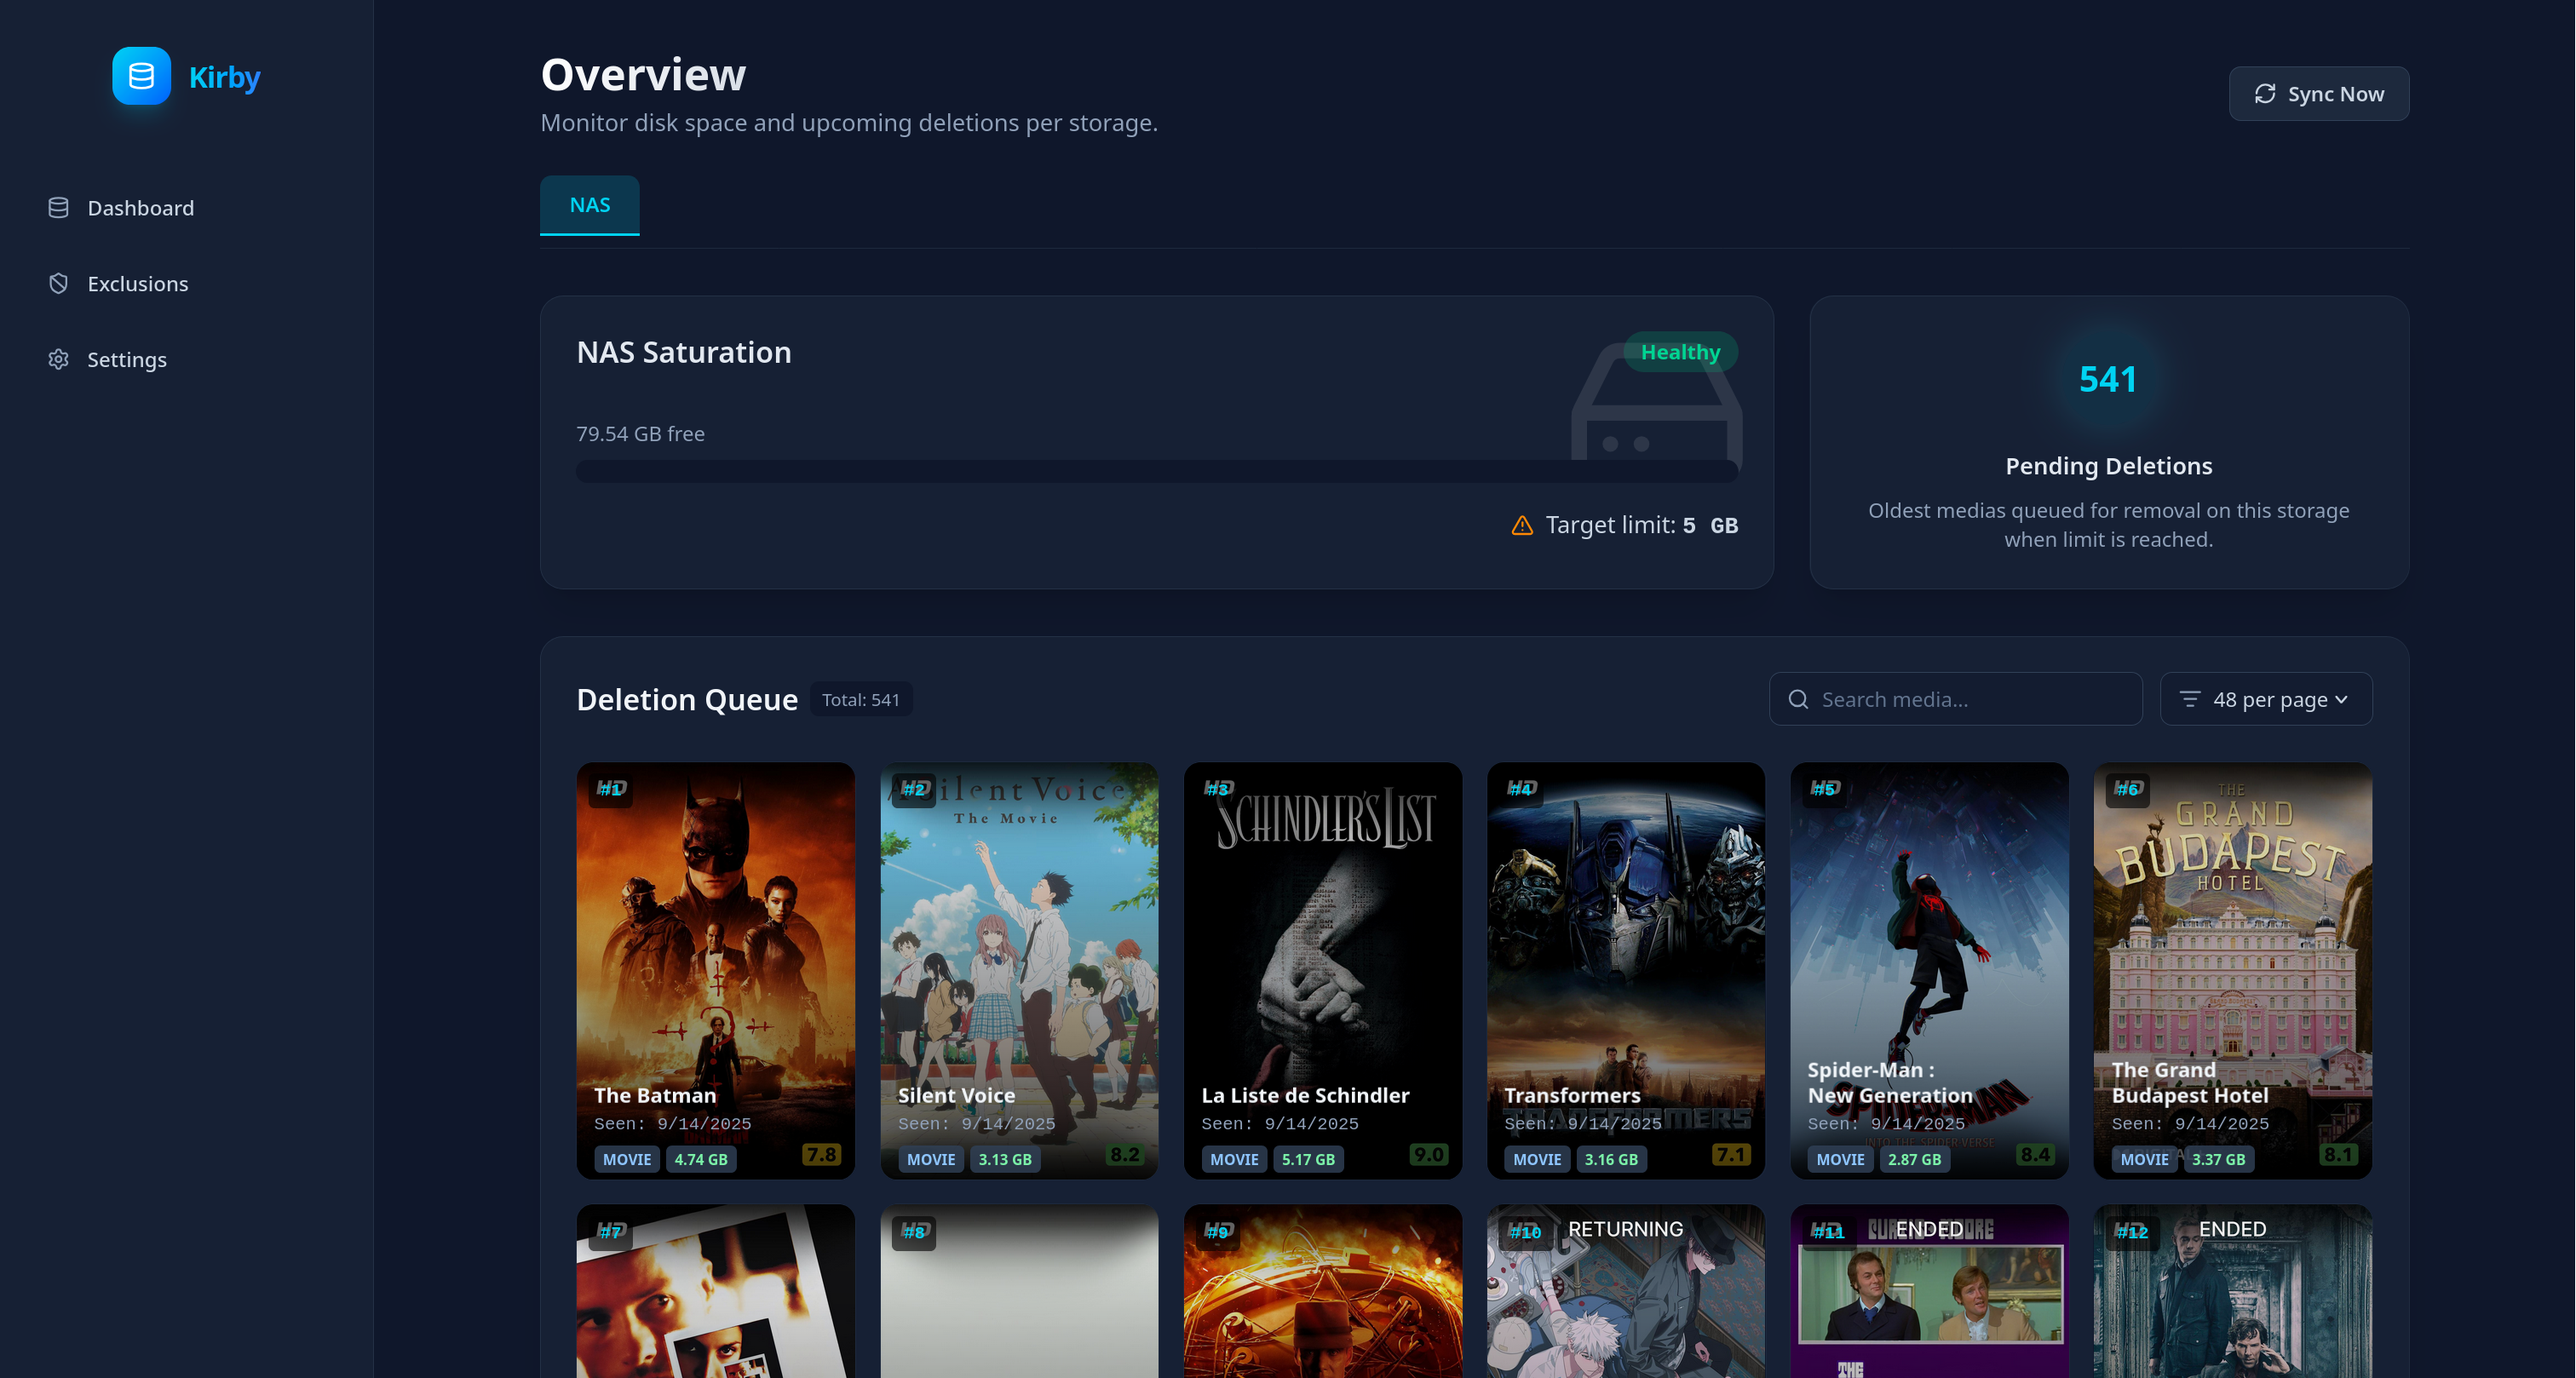
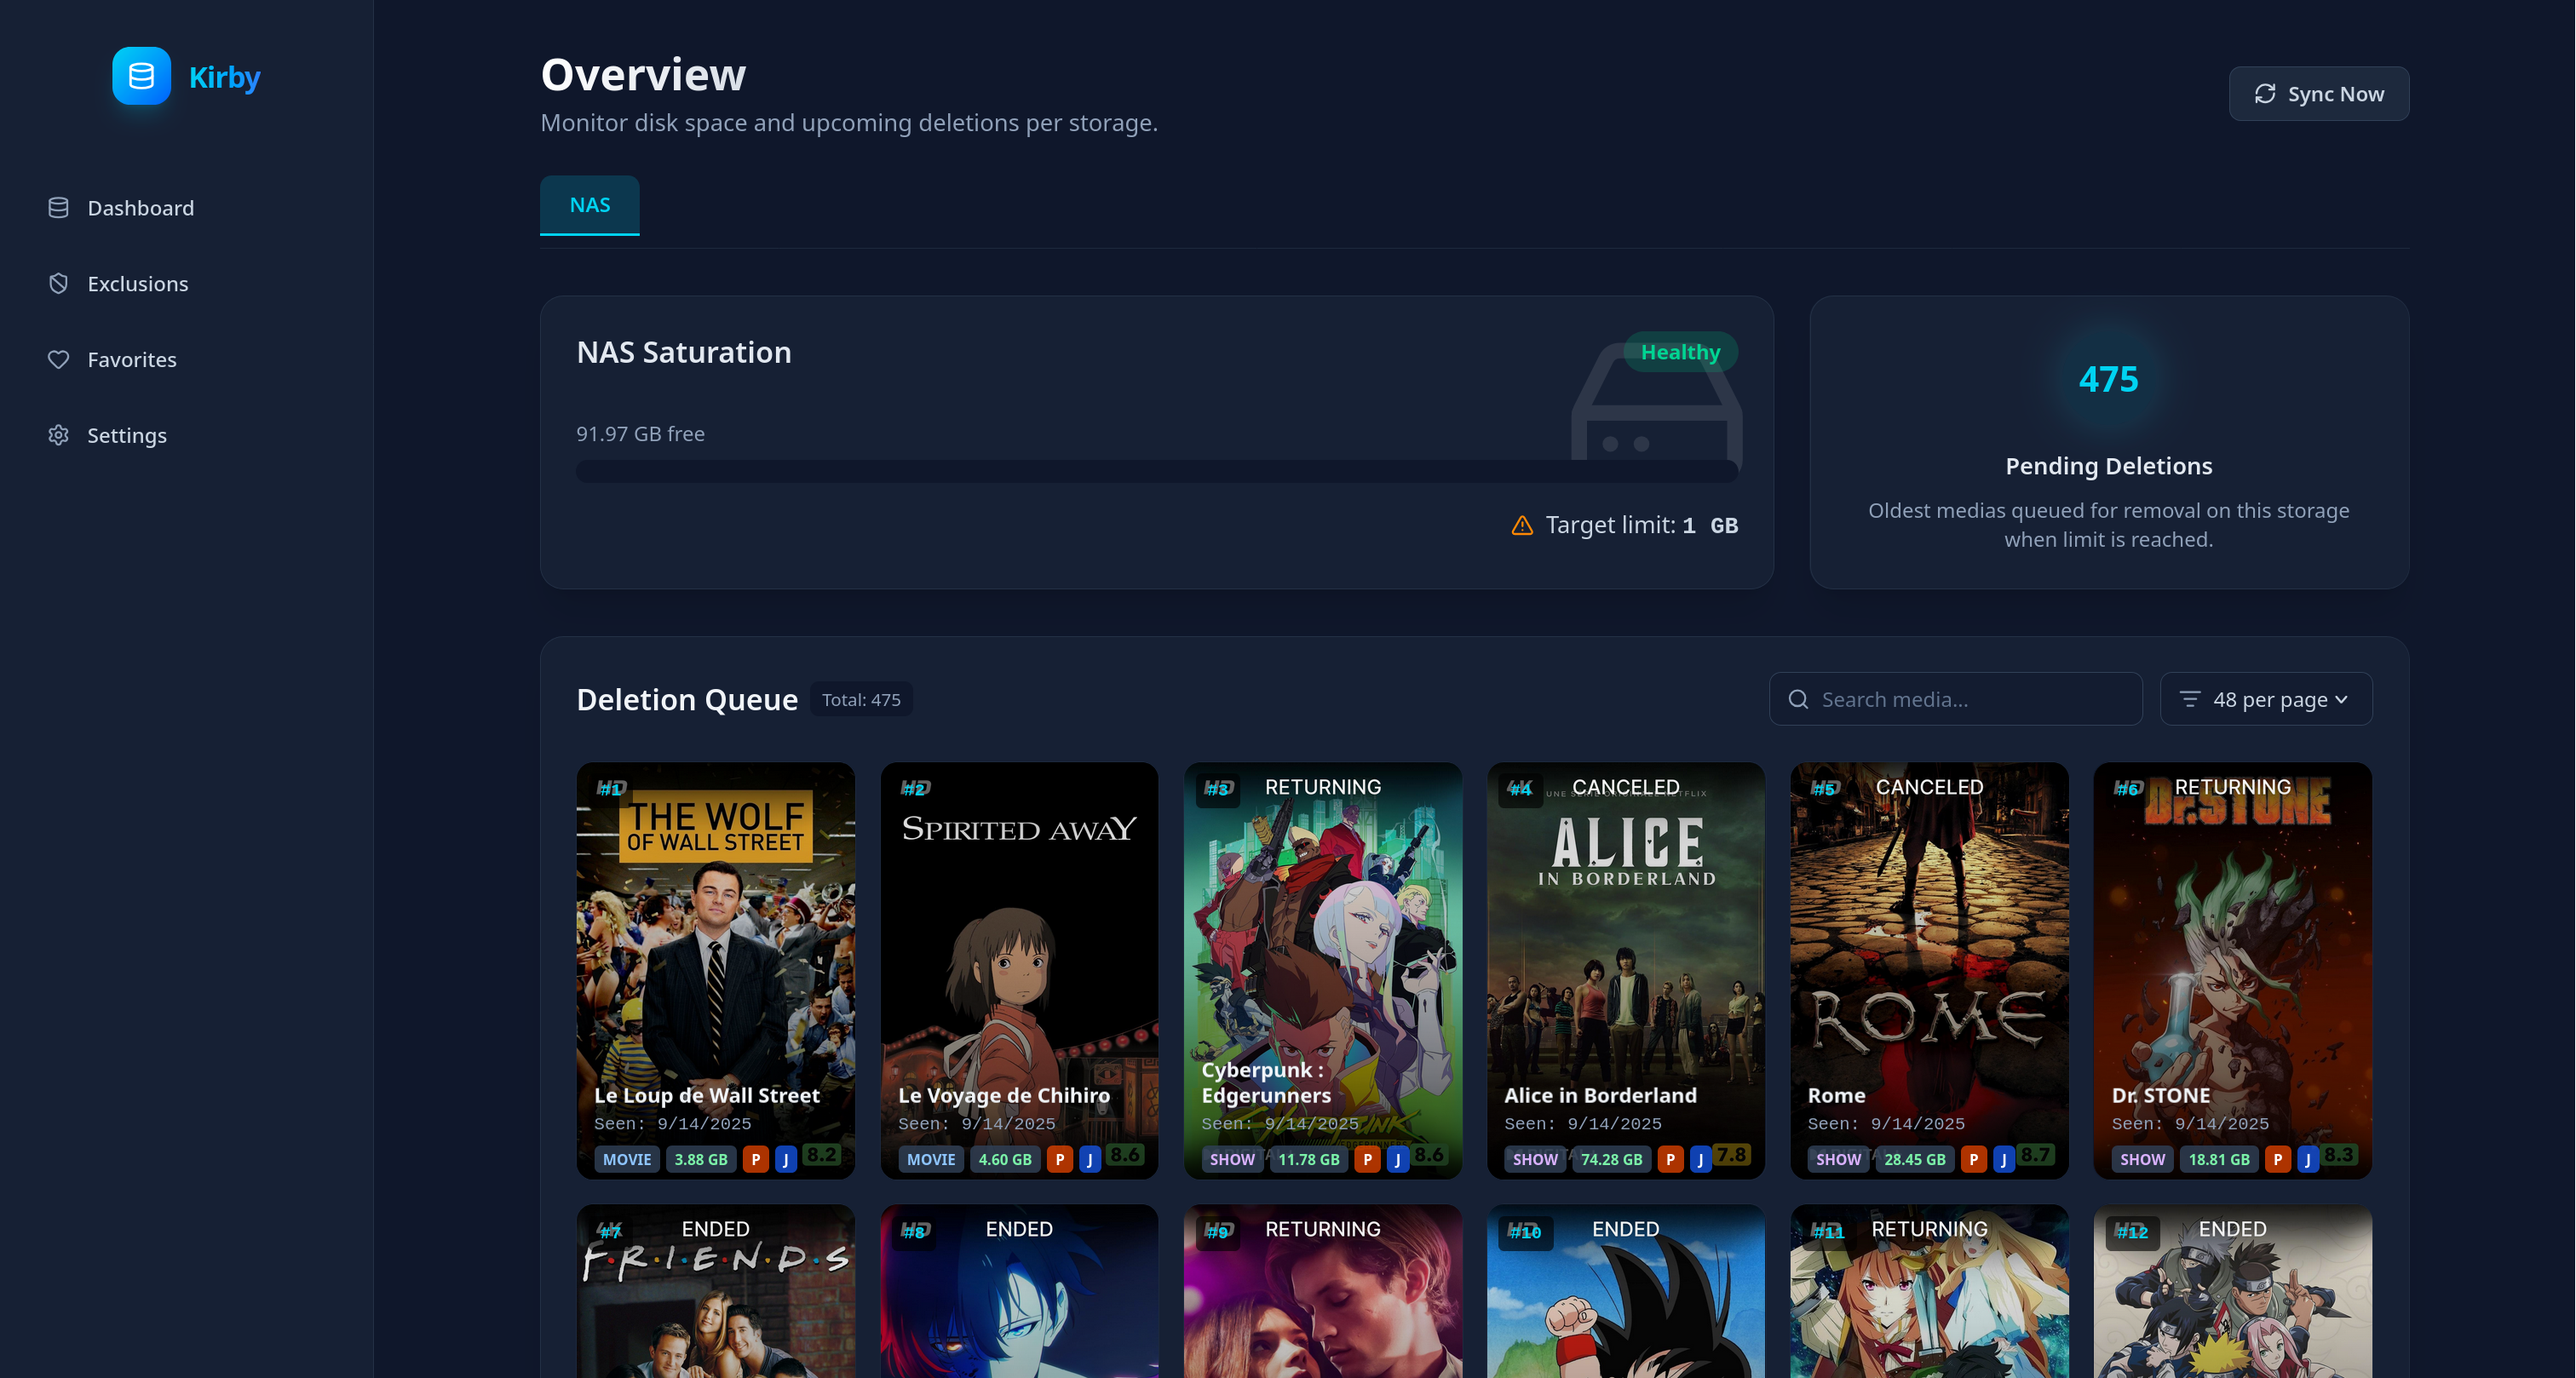
docs: update readme

diff --git a/frontend/src/pages/Settings.tsx b/frontend/src/pages/Settings.tsx
@@ -161,48 +161,47 @@ export default function Settings() {
   const [plexAuthLoading, setPlexAuthLoading] = useState(false);
   const [usersLoading, setUsersLoading] = useState(false);
 
-  // Sync ignoredUsers/excludedUsers with availableUsers when settings load
-  function syncUserColumns(allUsers: string[], savedExcluded: string[]) {
-    setExcludedUsers(savedExcluded.filter(u => allUsers.includes(u)));
-    setIgnoredUsers(allUsers.filter(u => !savedExcluded.includes(u)));
-  }
-
   useEffect(() => {
+    function syncUserColumns(allUsers: string[], savedExcluded: string[]) {
+      setExcludedUsers(savedExcluded.filter(u => allUsers.includes(u)));
+      setIgnoredUsers(allUsers.filter(u => !savedExcluded.includes(u)));
+    }
+
+    async function fetchData() {
+      try {
+        const dataPromises = [
+          axios.get('/api/settings'),
+          axios.get('/api/paths/plex').catch(() => ({ data: [] })),
+          axios.get('/api/paths/jellyfin').catch(() => ({ data: [] })),
+          axios.get('/api/paths/sonarr').catch(() => ({ data: [] })),
+          axios.get('/api/paths/radarr').catch(() => ({ data: [] })),
+          axios.get('/api/favorites/users').catch(() => ({ data: [] })),
+        ];
+        
+        const [resSettings, resPlex, resJellyfin, resSonarr, resRadarr, resUsers] = await Promise.all(dataPromises);
+
+        const data = resSettings.data;
+        if (data.storages) {
+          try { setStorages(JSON.parse(data.storages)); } catch { /* ignore */ }
+        }
+        setSettings(prev => ({ ...prev, ...data }));
+
+        setPlexPaths(resPlex.data || []);
+        setJellyfinPaths(resJellyfin.data || []);
+        setSonarrPaths(resSonarr.data || []);
+        setRadarrPaths(resRadarr.data || []);
+
+        const users: string[] = resUsers.data || [];
+        let savedExcluded: string[] = [];
+        try { savedExcluded = JSON.parse(data.excludeFavoritesUsers || '[]'); } catch { savedExcluded = []; }
+        syncUserColumns(users, savedExcluded);
+      } catch (err) {
+        console.error(err);
+      }
+    }
+
     fetchData();
   }, []);
-
-  async function fetchData() {
-    try {
-      const dataPromises = [
-        axios.get('/api/settings'),
-        axios.get('/api/paths/plex').catch(() => ({ data: [] })),
-        axios.get('/api/paths/jellyfin').catch(() => ({ data: [] })),
-        axios.get('/api/paths/sonarr').catch(() => ({ data: [] })),
-        axios.get('/api/paths/radarr').catch(() => ({ data: [] })),
-        axios.get('/api/favorites/users').catch(() => ({ data: [] })),
-      ];
-      
-      const [resSettings, resPlex, resJellyfin, resSonarr, resRadarr, resUsers] = await Promise.all(dataPromises);
-
-      const data = resSettings.data;
-      if (data.storages) {
-        try { setStorages(JSON.parse(data.storages)); } catch { /* ignore */ }
-      }
-      setSettings(prev => ({ ...prev, ...data }));
-
-      setPlexPaths(resPlex.data || []);
-      setJellyfinPaths(resJellyfin.data || []);
-      setSonarrPaths(resSonarr.data || []);
-      setRadarrPaths(resRadarr.data || []);
-
-      const users: string[] = resUsers.data || [];
-      let savedExcluded: string[] = [];
-      try { savedExcluded = JSON.parse(data.excludeFavoritesUsers || '[]'); } catch { savedExcluded = []; }
-      syncUserColumns(users, savedExcluded);
-    } catch (err) {
-      console.error(err);
-    }
-  }
 
   // Refresh possible paths for a service
   async function refreshPaths(service: string) {
@@ -431,7 +430,7 @@ export default function Settings() {
                   onChange={e => setSettings(s => ({ ...s, excludeFavorites: e.target.checked ? 'true' : 'false' }))}
                   className="sr-only peer"
                 />
-                <div className="w-11 h-6 bg-slate-700 peer-focus:ring-2 peer-focus:ring-pink-500/50 rounded-full peer peer-checked:after:translate-x-full rtl:peer-checked:after:-translate-x-full peer-checked:after:border-white after:content-[''] after:absolute after:top-[2px] after:start-[2px] after:bg-white after:border-gray-300 after:border after:rounded-full after:h-5 after:w-5 after:transition-all peer-checked:bg-pink-500"></div>
+                <div className="w-11 h-6 bg-slate-700 peer-focus:ring-2 peer-focus:ring-pink-500/50 rounded-full peer peer-checked:after:translate-x-full rtl:peer-checked:after:-translate-x-full peer-checked:after:border-white after:content-[''] after:absolute after:top-[2px] after:inset-s-[2px] after:bg-white after:border-gray-300 after:border after:rounded-full after:h-5 after:w-5 after:transition-all peer-checked:bg-pink-500"></div>
               </label>
             </div>
             <p className="text-xs text-slate-400">Medias favorited by Plex or Jellyfin users will not be deleted. Manage exclusions on the Favorites page.</p>
@@ -448,7 +447,7 @@ export default function Settings() {
                       onChange={e => setSettings(s => ({ ...s, excludeFavoritesAllUsers: e.target.checked ? 'true' : 'false' }))}
                       className="sr-only peer"
                     />
-                    <div className="w-11 h-6 bg-slate-700 peer-focus:ring-2 peer-focus:ring-pink-500/50 rounded-full peer peer-checked:after:translate-x-full rtl:peer-checked:after:-translate-x-full peer-checked:after:border-white after:content-[''] after:absolute after:top-[2px] after:start-[2px] after:bg-white after:border-gray-300 after:border after:rounded-full after:h-5 after:w-5 after:transition-all peer-checked:bg-pink-500"></div>
+                    <div className="w-11 h-6 bg-slate-700 peer-focus:ring-2 peer-focus:ring-pink-500/50 rounded-full peer peer-checked:after:translate-x-full rtl:peer-checked:after:-translate-x-full peer-checked:after:border-white after:content-[''] after:absolute after:top-[2px] after:inset-s-[2px] after:bg-white after:border-gray-300 after:border after:rounded-full after:h-5 after:w-5 after:transition-all peer-checked:bg-pink-500"></div>
                   </label>
                 </div>
 

diff --git a/README.md b/README.md
@@ -12,6 +12,7 @@ Kirby is a powerful, centralized deletion and exclusion manager designed for sop
 
 - **Automated Deletion Queue:** Keeps track of your unwatched or older media and intelligently purges it once designated storage thresholds are met.
 - **Smart Shield (Auto-Exclusions):** Tracks the deletion history of your library natively. If a movie or series hits your custom threshold of deletions over time, Kirby safely locks it away into the **Exclusions** list to prevent future re-deletions automatically!
+- **Favorite Detection:** Automatically detects media favorited by Plex and Jellyfin users and excludes it from deletion. Supports per-user targeting, cross-server aggregation, and an "Ignore" override for individual items.
 - **Multi-Server Ready:** Easily toggle paths and storage mapping across Plex and Jellyfin arrays.
 - **Dynamic Frontend:** Built with React & Vite + Tailwind, giving you native searching, filtering, and rapid-pagination.
 
@@ -58,12 +59,23 @@ Visualize and manage your shielded media gracefully. Filter directly by items ca
   <img src="docs/assets/exclusions.png" alt="Exclusions Setup" width="800"/>
 </p>
 
+### ❤ Favorites
+
+Browse all media favorited across your Plex and Jellyfin servers. Source badges (P/J) identify where each favorite originates. Hover any item to toggle its protection — "Ignore" re-enters it in the deletion queue, "Restore" re-enables the shield.
+
+<p align="center">
+  <img src="docs/assets/favorites.png" alt="Favorites Page" width="800"/>
+</p>
+
 ### ⚙ Deep Configuration Setup
 
-Connect everything seamlessly using the global settings. Set your free-space targets, custom endpoints, and automation rules in seconds.
+Connect everything seamlessly using the global settings. Set your free-space targets, custom endpoints, and automation rules in seconds. Enable **Exclude Favorite Medias** to protect favorited content, with optional per-user targeting.
 
 <p align="center">
   <img src="docs/assets/settings.png" alt="Settings Configuration" width="800"/>
+</p>
+<p align="center">
+  <img src="docs/assets/settings2.png" alt="Settings Configuration" width="800"/>
 </p>
 
 ---
